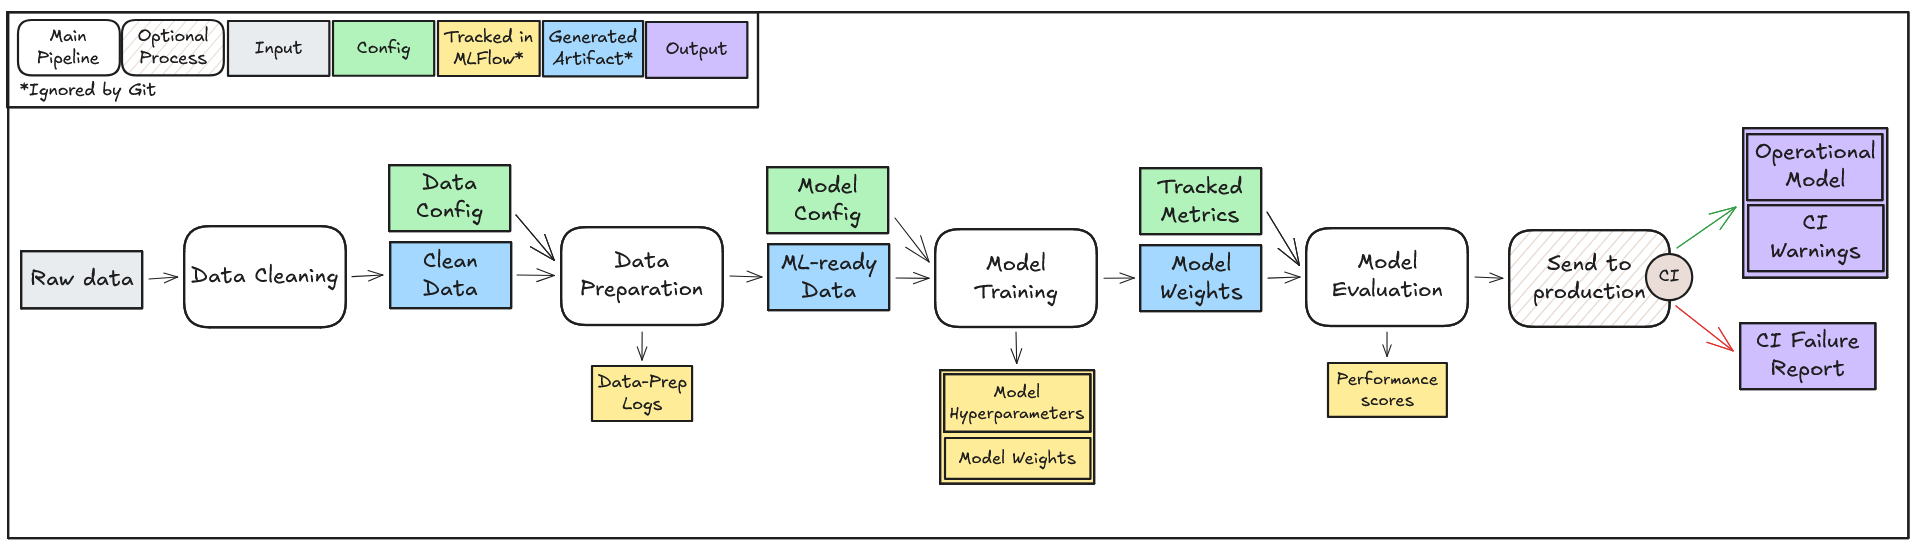
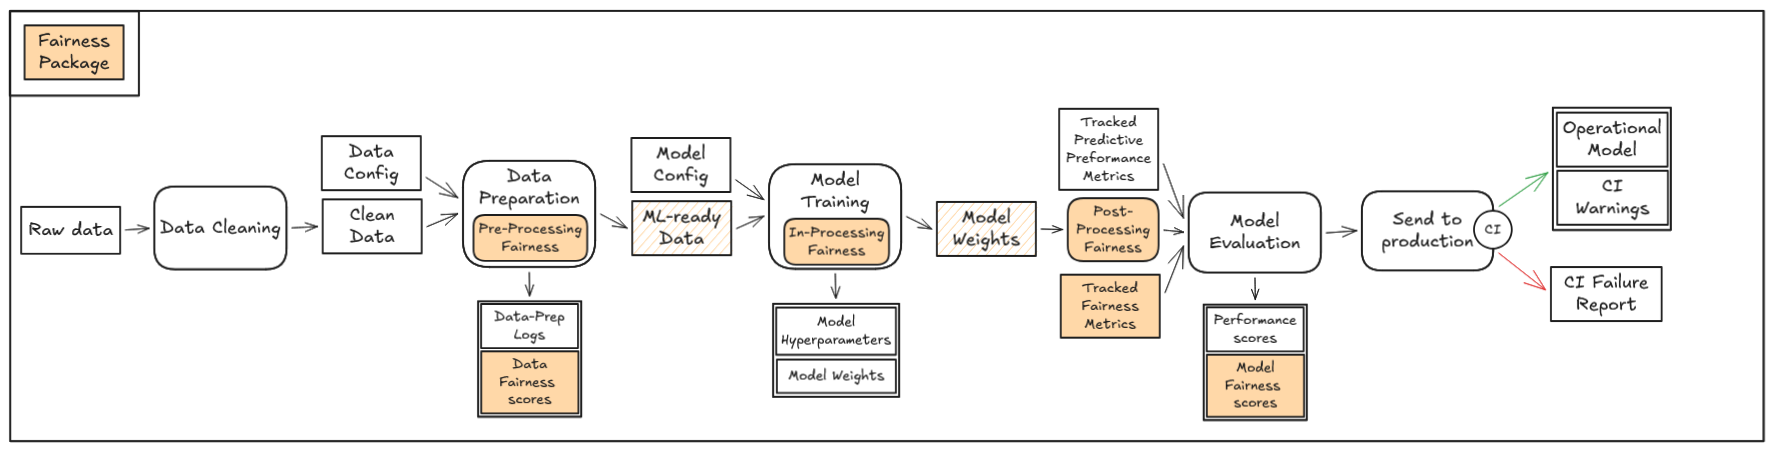
readme update

Changed region(s): [[0.0, 0.0, 1.0, 0.9956]]

diff --git a/README.md b/README.md
@@ -20,43 +20,40 @@ You should now have a ".venv" python with the right dependencies to run any code
 
 ## Configuration
 
-The code will rely on the config files in the ``config/`` folder. 
+The code will rely on the config file in the ``config/`` folder. 
 
 ## Usage
 
 You can use the ``Makefile`` to run the scripts.
-The main script to run is ``pipeline.py``, it will track the process using MLFlow. 
+The main script to run is ``pipeline.py``, it will use the data to train a model according to the config, and track the process using MLFlow. 
 
-``clean_and_prepare_data.py``, ``split_data.py`` and ``model_training.py`` are scripts you can use to focus on a specific part of the pipeline. 
-Using these scripts, the process is not tracked by MLFlow.
-
-If you want to check the state of the tracking, use ``poetry run mlflow ui``
+To check the state of the tracking, use ``poetry run mlflow ui``
 
 ## Tracking
 
-When you run the pipeline, many logs are tracked in order to reproduce and compare iteration.
 During the data preparation, we track parameters such as the test sample size.
-During the model training, we track the model hyperparameters.
+Before the model training, we track the model hyperparameters.
 After the model training, we track metrics in order to compare multiple models.
 
-![Pipeline Schema](img/readme_schema_1.png "Pipeline Schema")
+## CI
+
+The pipeline produces artifacts such as a model weights file. 
+The ``justification/`` folder includes justification diagrams that will define the criteria to pass the continuous integration.
+The active justification diagram is referenced in the config.
+Once you push new code, justification is test with github actions to ensure that the criteria remain always valid.
+
+![CI Schema](img/readme_schema_1.png "CI Pipeline Schema")
+
+## Fairness
+
+Fairness process and evaluation are available in order to justify fairness constraints according to justifications to be tested on CI.
+
+![Fairness Schema](img/readme_schema_2.png "Fairness Pipeline Schema")
 
 ## WIP
-
-### Justifications and Continuous Integration to test a model to be on production
-
-Implementation of a CI process to test justifications described with JPipe Justification Diagrams.
-
-![CI Schema](img/readme_schema_2.png "WIP CI Pipeline Schema")
-
-### Fairness Package
-
-Implementation of optional fairness process and evaluation in order to justify fairness constraints according to justifications to be tested on CI.
-
-![Fairness Schema](img/readme_schema_3.png "WIP Fairness Pipeline Schema")
 
 ### Transparency Package
 
 Implementation of optional transparency evaluation in order to justify transparency constraints according to justifications to be tested on CI.
 
-![Transparency Schema](img/readme_schema_4.png "WIP Transparency Pipeline Schema")
+![Transparency Schema](img/readme_schema_3.png "WIP Transparency Pipeline Schema")
